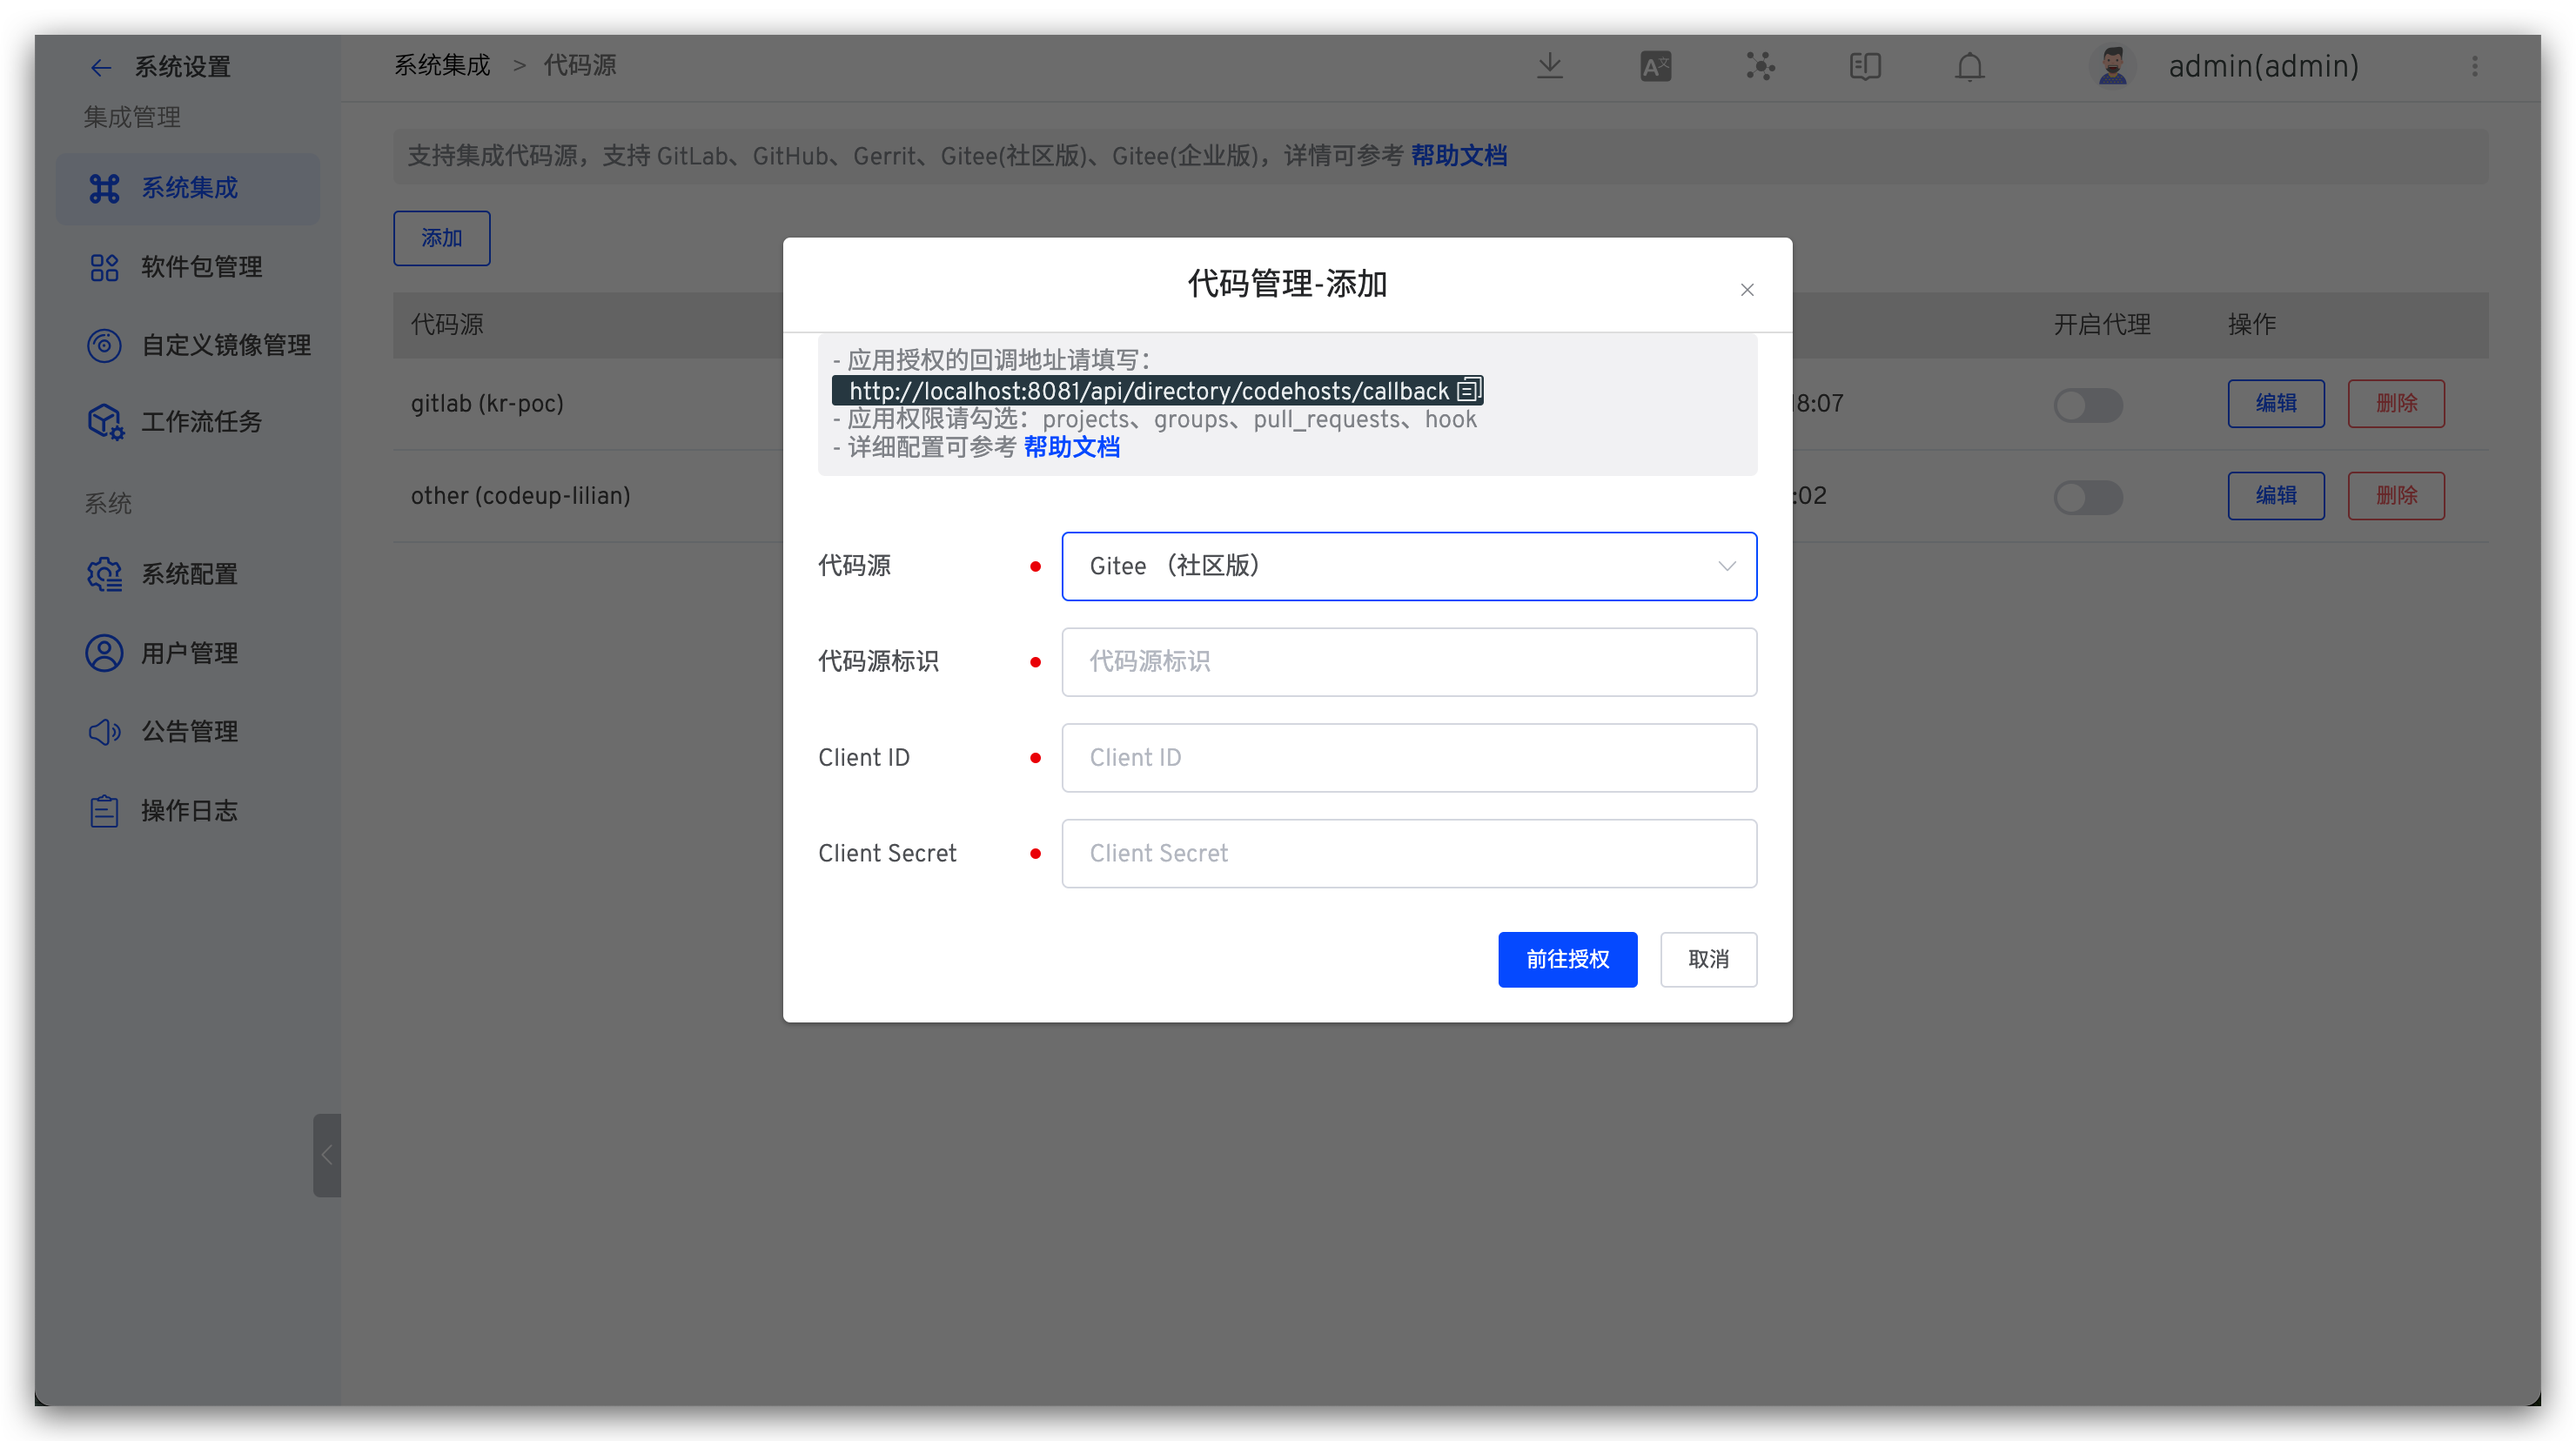
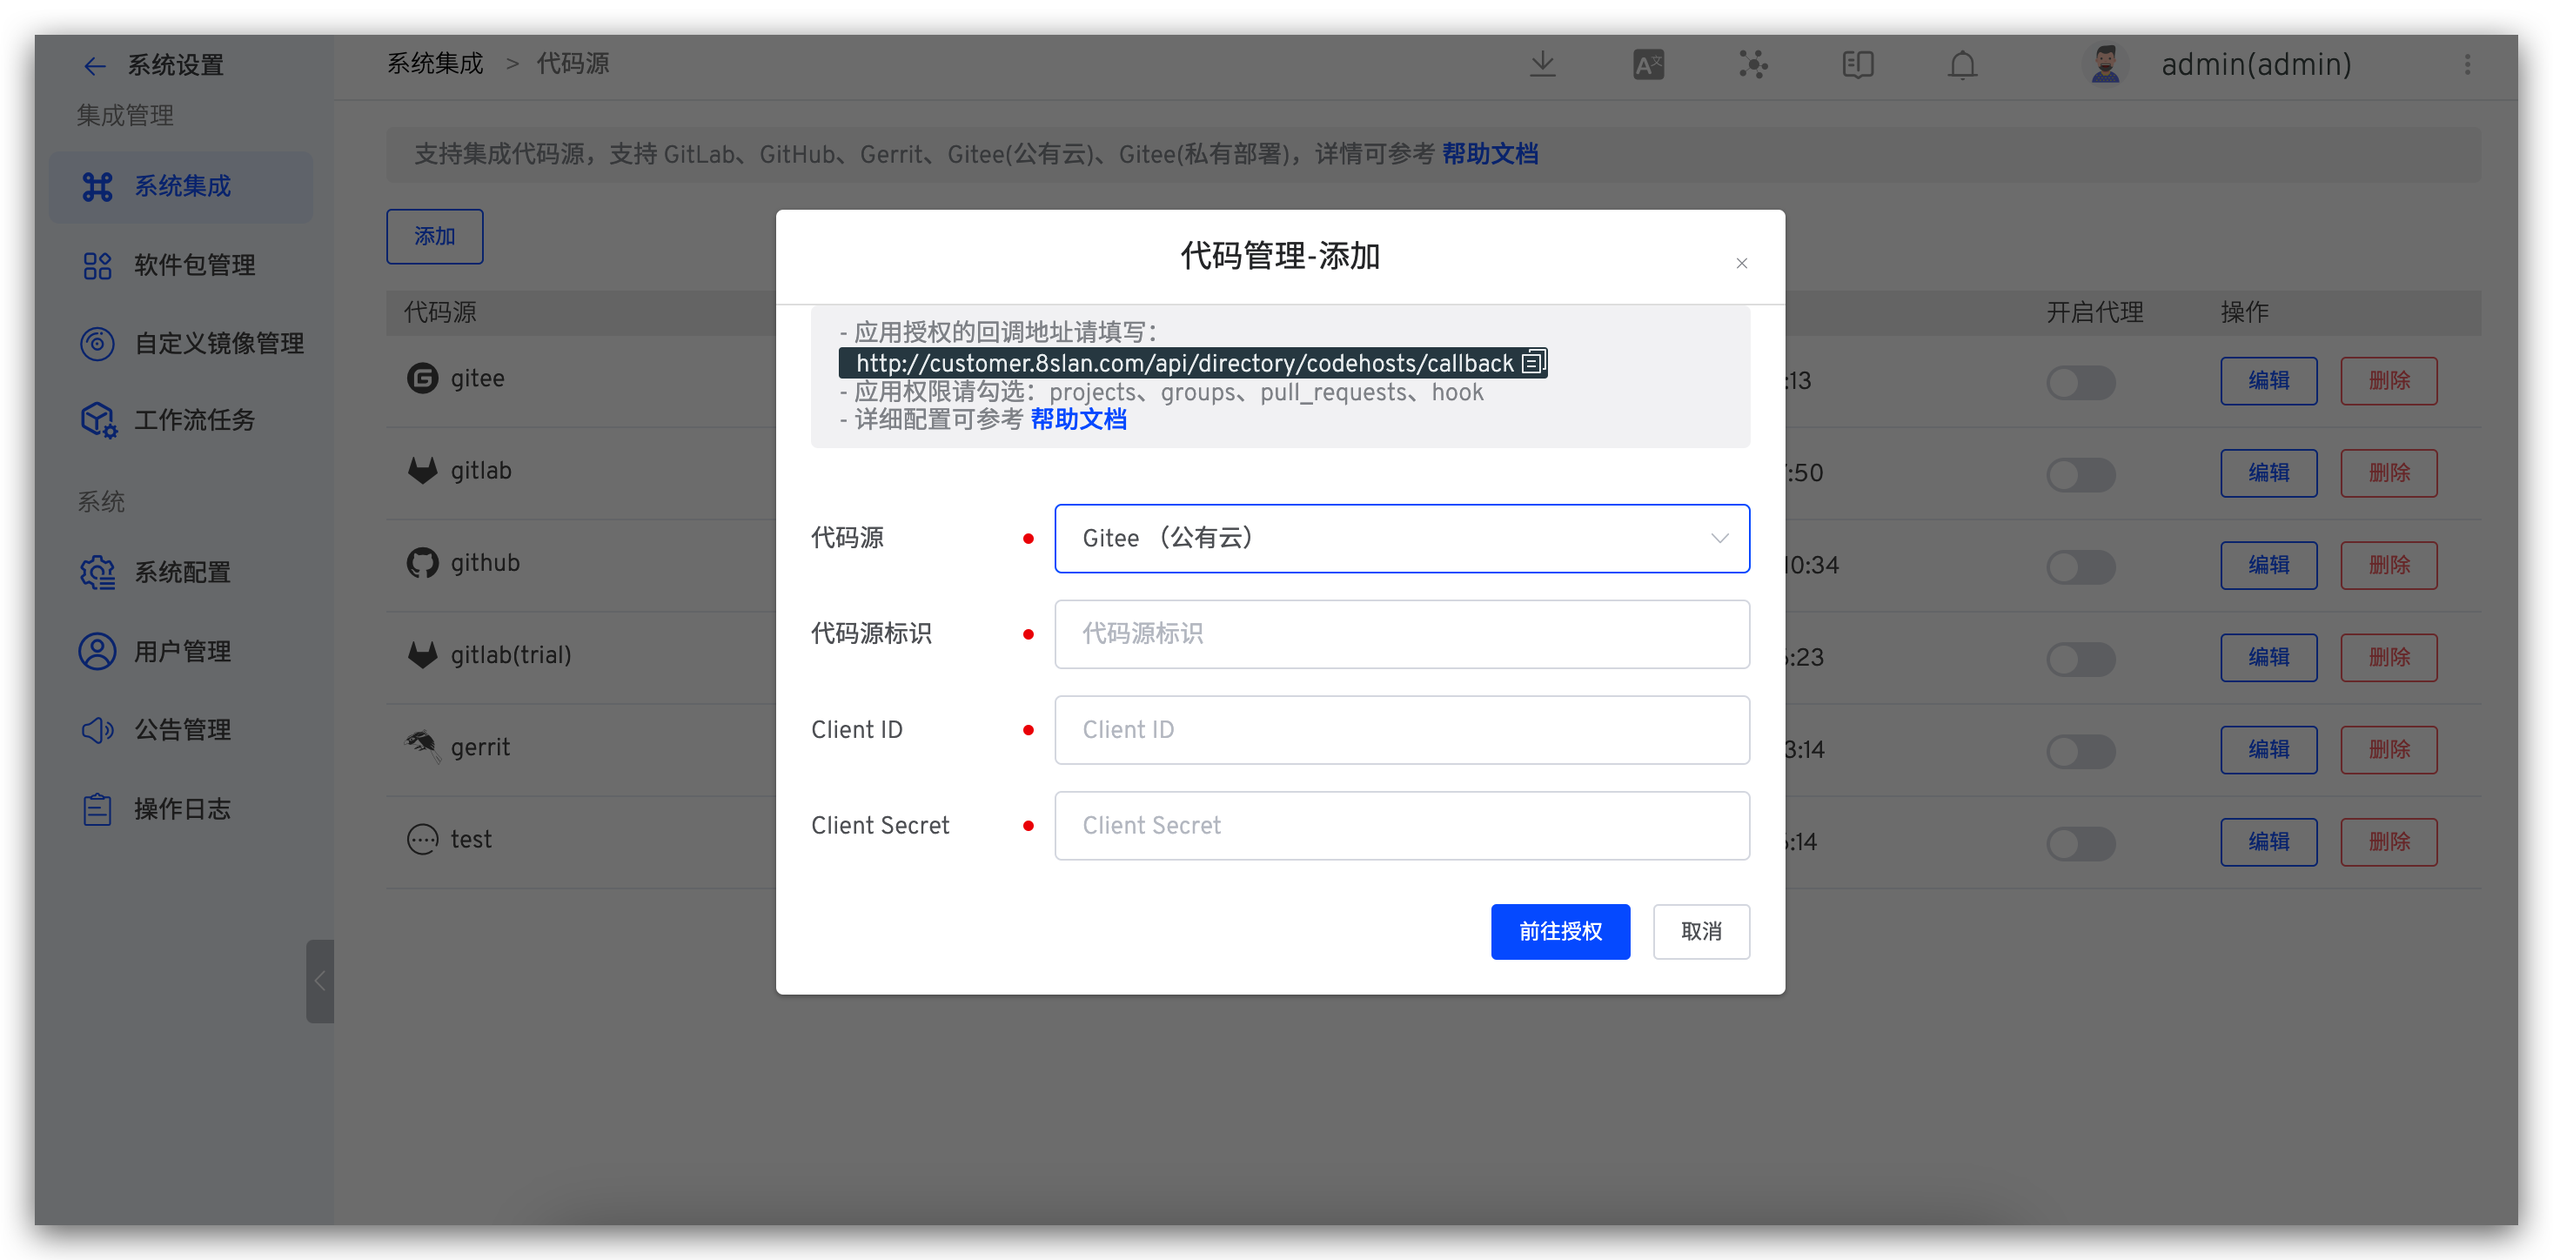
update gitee doc

diff --git a/ZadigX v1.4.0/05.功能介绍/18.系统设置/02.代码源/09.gitee-enterprise.md b/ZadigX v1.4.0/05.功能介绍/18.系统设置/02.代码源/09.gitee-enterprise.md
@@ -64,7 +64,7 @@ Gitee 私有部署代码源在 ZadigX 中的使用范围说明如下：
 
 依次填入如下已知信息：
 
-- `代码源`：此处选择 `Gitee (企业版)`
+- `代码源`：此处选择 `Gitee (私有部署)`
 - `代码源标识`：自定义，方便在 ZadigX 系统中快速识别出该代码源，该信息在整个系统内唯一
 - `Client ID`：步骤 3 应用创建成功返回的 Client ID
 - `Client Secret`：步骤 3 生成的 Client Secret

diff --git a/Zadig v1.16.0/15.系统设置/02.代码源/09.gitee-enterprise.md b/Zadig v1.16.0/15.系统设置/02.代码源/09.gitee-enterprise.md
@@ -64,7 +64,7 @@ Gitee 私有部署代码源在 Zadig 中的使用范围说明如下：
 
 依次填入如下已知信息：
 
-- `代码源`：此处选择 `Gitee (企业版)`
+- `代码源`：此处选择 `Gitee (私有部署)`
 - `代码源标识`：自定义，方便在 Zadig 系统中快速识别出该代码源，该信息在整个系统内唯一
 - `Client ID`：步骤 3 应用创建成功返回的 Client ID
 - `Client Secret`：步骤 3 生成的 Client Secret

diff --git a/Zadig v1.17.0/15.系统设置/02.代码源/09.gitee-enterprise.md b/Zadig v1.17.0/15.系统设置/02.代码源/09.gitee-enterprise.md
@@ -64,7 +64,7 @@ Gitee 私有部署代码源在 Zadig 中的使用范围说明如下：
 
 依次填入如下已知信息：
 
-- `代码源`：此处选择 `Gitee (企业版)`
+- `代码源`：此处选择 `Gitee (私有部署)`
 - `代码源标识`：自定义，方便在 Zadig 系统中快速识别出该代码源，该信息在整个系统内唯一
 - `Client ID`：步骤 3 应用创建成功返回的 Client ID
 - `Client Secret`：步骤 3 生成的 Client Secret

diff --git a/ZadigX v1.5.0/05.功能介绍/18.系统设置/02.代码源/09.gitee-enterprise.md b/ZadigX v1.5.0/05.功能介绍/18.系统设置/02.代码源/09.gitee-enterprise.md
@@ -53,7 +53,7 @@ permalink: /ZadigX v1.5.0/settings/codehost/gitee-enterprise/
 
 依次填入如下已知信息：
 
-- `代码源`：此处选择 `Gitee (企业版)`
+- `代码源`：此处选择 `Gitee (私有部署)`
 - `代码源标识`：自定义，方便在 ZadigX 系统中快速识别出该代码源，该信息在整个系统内唯一
 - `Client ID`：步骤 3 应用创建成功返回的 Client ID
 - `Client Secret`：步骤 3 生成的 Client Secret

diff --git a/ZadigX v1.6.0/05.功能介绍/17.集成管理/02.代码源/09.gitee-enterprise.md b/ZadigX v1.6.0/05.功能介绍/17.集成管理/02.代码源/09.gitee-enterprise.md
@@ -53,7 +53,7 @@ permalink: /ZadigX v1.6.0/settings/codehost/gitee-enterprise/
 
 依次填入如下已知信息：
 
-- `代码源`：此处选择 `Gitee (企业版)`
+- `代码源`：此处选择 `Gitee (私有部署)`
 - `代码源标识`：自定义，方便在 ZadigX 系统中快速识别出该代码源，该信息在整个系统内唯一
 - `Client ID`：步骤 3 应用创建成功返回的 Client ID
 - `Client Secret`：步骤 3 生成的 Client Secret

diff --git a/ZadigX v1.7.0/05.功能介绍/22.集成管理/02.代码源/09.gitee-enterprise.md b/ZadigX v1.7.0/05.功能介绍/22.集成管理/02.代码源/09.gitee-enterprise.md
@@ -53,7 +53,7 @@ permalink: /ZadigX v1.7.0/settings/codehost/gitee-enterprise/
 
 依次填入如下已知信息：
 
-- `代码源`：此处选择 `Gitee (企业版)`
+- `代码源`：此处选择 `Gitee (私有部署)`
 - `代码源标识`：自定义，方便在 ZadigX 系统中快速识别出该代码源，该信息在整个系统内唯一
 - `Client ID`：步骤 3 应用创建成功返回的 Client ID
 - `Client Secret`：步骤 3 生成的 Client Secret

diff --git a/ZadigX v1.8.0/05.功能介绍/22.集成管理/02.代码源/09.gitee-enterprise.md b/ZadigX v1.8.0/05.功能介绍/22.集成管理/02.代码源/09.gitee-enterprise.md
@@ -53,7 +53,7 @@ permalink: /ZadigX v1.8.0/settings/codehost/gitee-enterprise/
 
 依次填入如下已知信息：
 
-- `代码源`：此处选择 `Gitee (企业版)`
+- `代码源`：此处选择 `Gitee (私有部署)`
 - `代码源标识`：自定义，方便在 ZadigX 系统中快速识别出该代码源，该信息在整个系统内唯一
 - `Client ID`：步骤 3 应用创建成功返回的 Client ID
 - `Client Secret`：步骤 3 生成的 Client Secret

diff --git a/Zadig v2.0.0/05.功能介绍及最佳实践/22.集成管理/02.代码源/09.gitee-enterprise.md b/Zadig v2.0.0/05.功能介绍及最佳实践/22.集成管理/02.代码源/09.gitee-enterprise.md
@@ -53,7 +53,7 @@ permalink: /Zadig v2.0.0/settings/codehost/gitee-enterprise/
 
 依次填入如下已知信息：
 
-- `代码源`：此处选择 `Gitee (企业版)`
+- `代码源`：此处选择 `Gitee (私有部署)`
 - `代码源标识`：自定义，方便在 Zadig 系统中快速识别出该代码源，该信息在整个系统内唯一
 - `Client ID`：步骤 3 应用创建成功返回的 Client ID
 - `Client Secret`：步骤 3 生成的 Client Secret

diff --git a/Zadig v2.1.0/05.功能介绍及最佳实践/22.集成管理/02.代码源/09.gitee-enterprise.md b/Zadig v2.1.0/05.功能介绍及最佳实践/22.集成管理/02.代码源/09.gitee-enterprise.md
@@ -53,7 +53,7 @@ permalink: /Zadig v2.1.0/settings/codehost/gitee-enterprise/
 
 依次填入如下已知信息：
 
-- `代码源`：此处选择 `Gitee (企业版)`
+- `代码源`：此处选择 `Gitee (私有部署)`
 - `代码源标识`：自定义，方便在 Zadig 系统中快速识别出该代码源，该信息在整个系统内唯一
 - `Client ID`：步骤 3 应用创建成功返回的 Client ID
 - `Client Secret`：步骤 3 生成的 Client Secret

diff --git a/Zadig v2.2.0/05.功能介绍及最佳实践/22.集成管理/02.代码源/09.gitee-enterprise.md b/Zadig v2.2.0/05.功能介绍及最佳实践/22.集成管理/02.代码源/09.gitee-enterprise.md
@@ -53,7 +53,7 @@ permalink: /Zadig v2.2.0/settings/codehost/gitee-enterprise/
 
 依次填入如下已知信息：
 
-- `代码源`：此处选择 `Gitee (企业版)`
+- `代码源`：此处选择 `Gitee (私有部署)`
 - `代码源标识`：自定义，方便在 Zadig 系统中快速识别出该代码源，该信息在整个系统内唯一
 - `Client ID`：步骤 3 应用创建成功返回的 Client ID
 - `Client Secret`：步骤 3 生成的 Client Secret

diff --git a/ZadigX dev/05.功能介绍/22.集成管理/02.代码源/09.gitee-enterprise.md b/ZadigX dev/05.功能介绍/22.集成管理/02.代码源/09.gitee-enterprise.md
@@ -53,7 +53,7 @@ permalink: /ZadigX dev/settings/codehost/gitee-enterprise/
 
 依次填入如下已知信息：
 
-- `代码源`：此处选择 `Gitee (企业版)`
+- `代码源`：此处选择 `Gitee (私有部署)`
 - `代码源标识`：自定义，方便在 ZadigX 系统中快速识别出该代码源，该信息在整个系统内唯一
 - `Client ID`：步骤 3 应用创建成功返回的 Client ID
 - `Client Secret`：步骤 3 生成的 Client Secret

diff --git a/Zadig v2.3/05.功能介绍及最佳实践/22.集成管理/02.代码源/09.gitee-enterprise.md b/Zadig v2.3/05.功能介绍及最佳实践/22.集成管理/02.代码源/09.gitee-enterprise.md
@@ -53,7 +53,7 @@ permalink: /Zadig v2.3/settings/codehost/gitee-enterprise/
 
 依次填入如下已知信息：
 
-- `代码源`：此处选择 `Gitee (企业版)`
+- `代码源`：此处选择 `Gitee (私有部署)`
 - `代码源标识`：自定义，方便在 Zadig 系统中快速识别出该代码源，该信息在整个系统内唯一
 - `Client ID`：步骤 3 应用创建成功返回的 Client ID
 - `Client Secret`：步骤 3 生成的 Client Secret
